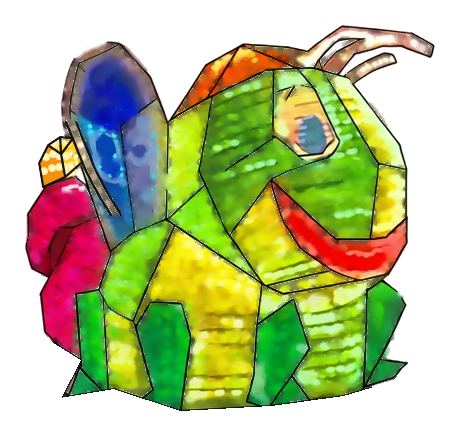
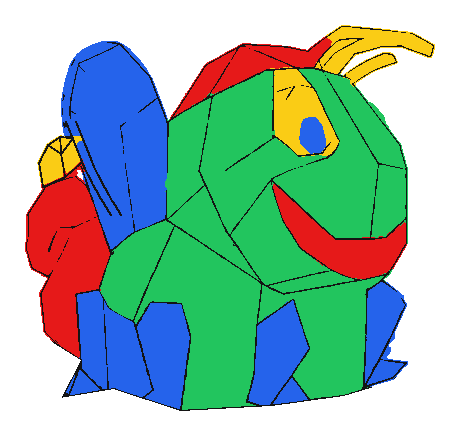
feat: paint each facet with 5 flat colors while preserving outlines and shapes

diff --git a/simulator/app.js b/simulator/app.js
@@ -235,7 +235,7 @@ lightningBugImg.onload = () => {
     lightningBugLoaded = true;
     notifyFloatImgLoaded();
 };
-lightningBugImg.src = 'assets/lightning_bug.png?v=20261104_dots_removed';
+lightningBugImg.src = 'assets/lightning_bug.png?v=20261104_5color_facets';
 
 const lightningBugTransparentImg = new Image();
 let lightningBugTransparentLoaded = false;
@@ -243,7 +243,7 @@ lightningBugTransparentImg.onload = () => {
     lightningBugTransparentLoaded = true;
     notifyFloatImgLoaded();
 };
-lightningBugTransparentImg.src = 'assets/lightningbug_transparent.png?v=20261104_dots_removed';
+lightningBugTransparentImg.src = 'assets/lightningbug_transparent.png?v=20261104_5color_facets';
 
 // Custom artwork image (if user uploads one or loads one from preset)
 let customArtworkImg = null;

diff --git a/PROJECT_PROGRESS.md b/PROJECT_PROGRESS.md
@@ -93,6 +93,23 @@ This project coordinates synchronized, addressable LED lighting across **7 runne
 
 ## Progress Log
 
+### 2026-11-04: 5-Color Facet-by-Facet Flat Painting of Transparent Lightning Bug Graphic
+- **100% Geometry & Outline Preservation:**
+  - Kept all black facet boundaries, wireframe segment lines, and silhouette contours strictly identical (zero curve-smoothing, warping, or melted edges).
+  - Multi-scale directional morphological closing bridged subtle line gaps for watershed facet segmentation into 44 discrete, closed polygonal cells.
+- **Discrete 5-Color Palette Assignments:**
+  - **Head, Face, Neck, Jaw & Body/Belly:** Green (`#22c55e` / `[34, 197, 94]`, 56,418 px).
+  - **Wing & Legs:** Blue (`#2563eb` / `[37, 99, 235]`, 31,884 px).
+  - **Hat, Accordion Tail & Smiling Mouth:** Red (`#e61919` / `[230, 25, 25]`, 17,255 px).
+  - **Tail Lantern Tip, Antennae Rays & Eye Sclera:** Yellow (`#facc15` / `[250, 204, 21]`, 7,392 px).
+  - **Eye Iris:** Blue (`#2563eb`) organic shape cleanly preserved inside the yellow eye.
+  - **Outlines & Wireframe Borders:** Pure Black (`#141414` / `[20, 20, 20]`, 7,926 px).
+  - 100.00% color compliance across all 120,904 foreground pixels on a 100% transparent background.
+- **Safety Backups & Deployment:**
+  - Preserved unpainted backup at `assets/lightningbug_dots_removed_backup.png` and raw dot backup at `assets/lightningbug_transparent_backup.png`.
+  - Deployed painted asset to `assets/lightning_bug.png`, `simulator/assets/lightning_bug.png`, `assets/lightningbug_transparent.png`, and `simulator/assets/lightningbug_transparent.png`.
+  - Updated simulator cache-buster to `?v=20261104_5color_facets`.
+
 ### 2026-11-04: Removal of Incandescent Light Bulb Dots from Transparent Lightning Bug Graphic
 - **Shape & Color Integrity Preservation:**
   - Preserved 100% of character silhouette, polygon facet geometry, and black outline boundaries with zero shape warping or curve distortion.
